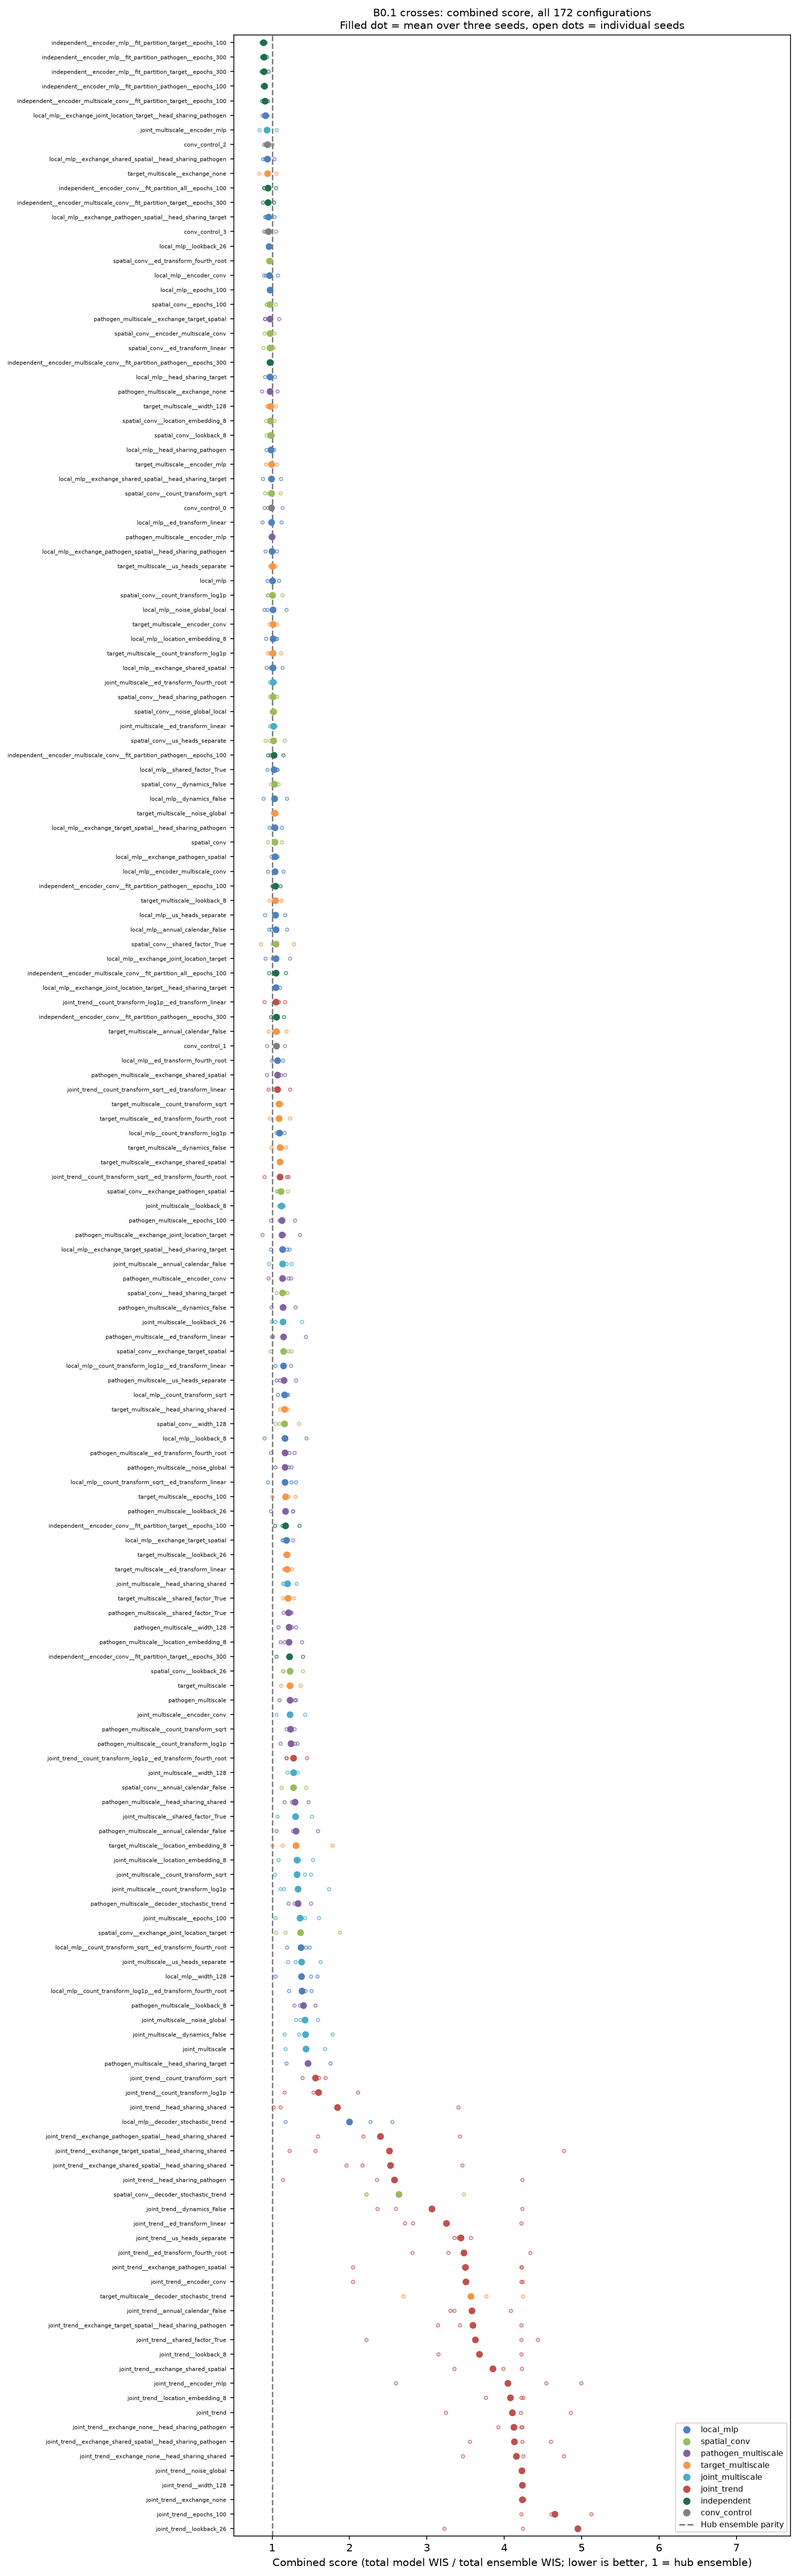
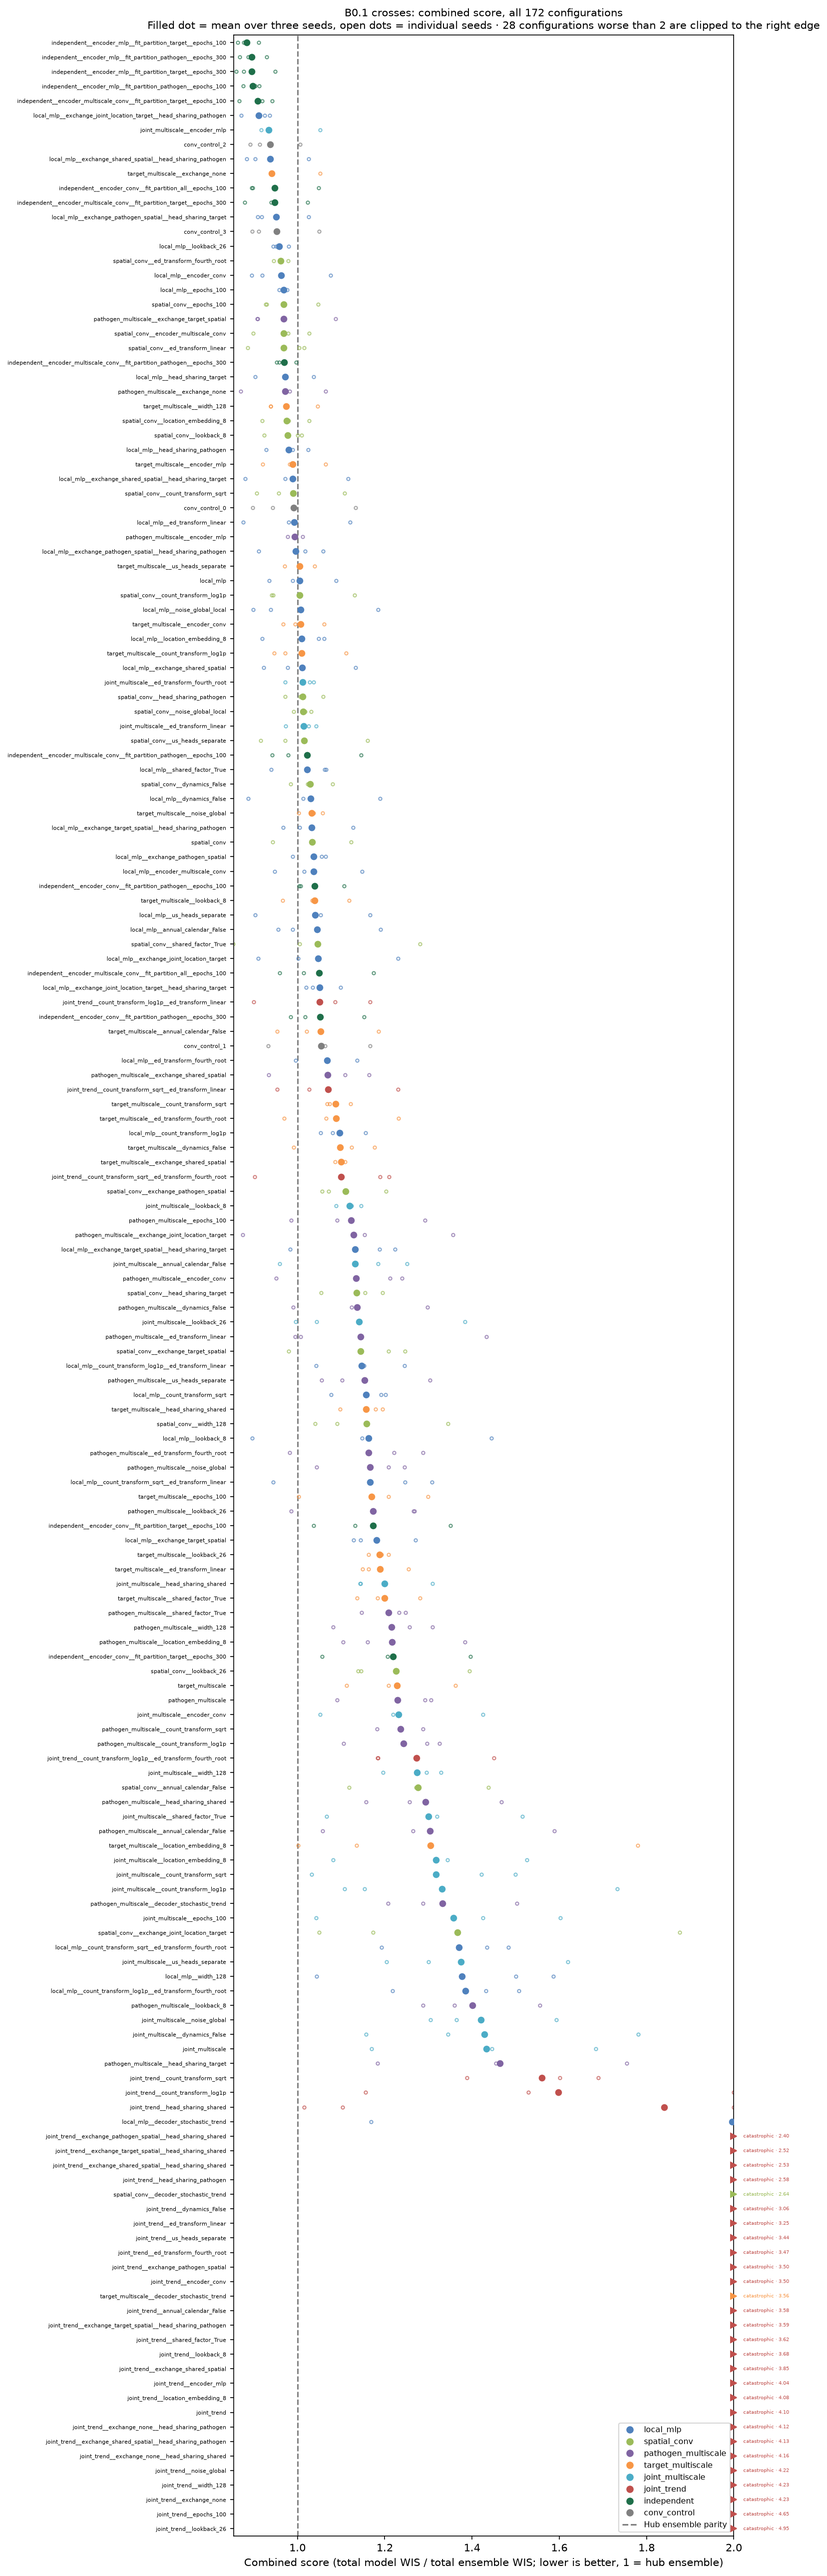
B0.1: per-factor verdicts, overfitting check, readable ranking scale
Ranking figure now stops at 2.0 so the region around ensemble parity is legible;
the 28 configurations beyond it are clipped to the edge and labelled with their
true score. All 28 carry the stochastic trend decoder.

Add a verdict for every one-factor change, excluding joint_trend whose collapsed
baseline made almost any change look like a large improvement. Five factors are
clear, four are consistent but below the seed-noise floor, and eighteen flip sign
between references. The four clear beneficial factors all point toward the
simpler model.

Add an overfitting section: no sign of training-set overfitting (early stopping
selects interior epochs, only 4% of cap-300 fits hit the cap, and raising the cap
from 100 to 300 does not help), but selection overfitting is real given 172
configurations ranked on three seasons with seed SD above the top-10 spread.

diff --git a/scripts/plot_b01_crosses.py b/scripts/plot_b01_crosses.py
@@ -72,23 +72,42 @@ def quality_table(seasons, configs, geography='states_dc'):
     return table.join(configs.set_index('name')[['combined_mean', 'combined_sd', 'rank']])
 
 
+CATASTROPHIC = 2.0
+
+
 def ranking_figure(configs, runs, output):
-    """Every configuration's combined score with its three seeds, best on top."""
+    """Every configuration's combined score with its three seeds, best on top.
+
+    The axis stops at `CATASTROPHIC` so the interesting range around parity is
+    readable; worse configurations are clipped to the edge and labelled with
+    their true score rather than compressing everything else.
+    """
     order = configs.sort_values('combined_mean')
     seeds = runs[runs.geography.eq('all')]
     fig, ax = plt.subplots(figsize=(10.5, 0.19 * len(order) + 1.8))
     y = np.arange(len(order))[::-1]
     for offset, row in zip(y, order.itertuples()):
+        color = FAMILY[family(row.name)]
+        if row.combined_mean > CATASTROPHIC:
+            ax.plot(CATASTROPHIC, offset, '>', ms=6, color=color, clip_on=False, zorder=3)
+            ax.annotate(f'catastrophic · {row.combined_mean:.2f}', (CATASTROPHIC, offset),
+                        textcoords='offset points', xytext=(9, 0), va='center', fontsize=5,
+                        color=color, annotation_clip=False)
+            continue
         points = seeds[seeds.name.eq(row.name)].combined
-        ax.plot(points, [offset] * len(points), 'o', ms=3, mfc='none',
-                mec=FAMILY[family(row.name)], alpha=.7, zorder=2)
-        ax.plot(row.combined_mean, offset, 'o', ms=5.5, color=FAMILY[family(row.name)], zorder=3)
+        ax.plot(np.clip(points, None, CATASTROPHIC), [offset] * len(points), 'o', ms=3, mfc='none',
+                mec=color, alpha=.7, zorder=2)
+        ax.plot(row.combined_mean, offset, 'o', ms=5.5, color=color, zorder=3)
     ax.axvline(1, color=ENSEMBLE, lw=1.4, ls='--', zorder=1)
+    ax.set_xlim(order.combined_mean.min() - .03, CATASTROPHIC)
     ax.set_yticks(y)
     ax.set_yticklabels(order.name, fontsize=5.2)
     ax.set_xlabel('Combined score (total model WIS / total ensemble WIS; lower is better, 1 = hub ensemble)')
+    beyond = int((configs.combined_mean > CATASTROPHIC).sum())
     ax.set_title(f'B0.1 crosses: combined score, all {len(order)} configurations\n'
-                 'Filled dot = mean over three seeds, open dots = individual seeds', fontsize=10)
+                 f'Filled dot = mean over three seeds, open dots = individual seeds · '
+                 f'{beyond} configurations worse than {CATASTROPHIC:g} are clipped to the right edge',
+                 fontsize=10)
     handles = [plt.Line2D([], [], marker='o', ls='', color=c, label=f) for f, c in FAMILY.items()]
     handles.append(plt.Line2D([], [], color=ENSEMBLE, ls='--', label='Hub ensemble parity'))
     ax.legend(handles=handles, fontsize=7.5, loc='lower right')
@@ -263,6 +282,9 @@ def seed_figure(configs, runs, output):
     ax.axvspan(top10.combined_mean.min(), top10.combined_mean.max(), color='gold', alpha=.25,
                label=f'Top-10 range = {top10.combined_mean.max() - top10.combined_mean.min():.4f}')
     ax.set_xscale('log')
+    ax.set_xticks([1, 2, 3, 5])
+    ax.xaxis.set_major_formatter(matplotlib.ticker.FormatStrFormatter('%g'))
+    ax.xaxis.set_minor_formatter(matplotlib.ticker.NullFormatter())
     ax.set_xlabel('Combined score (mean over seeds)')
     ax.set_ylabel('SD across the three seeds')
     ax.set_title('Seed noise grows with the score, and swamps the top of the table', fontsize=10)

diff --git a/docs/results/b0-1-crosses/index.md b/docs/results/b0-1-crosses/index.md
@@ -62,6 +62,12 @@ decoder — costs score at its own reference.
 
 Filled dots are the mean over seeds 42/43/44; open dots are the individual
 seeds. The ensemble parity line at 1 sits inside the upper third of the table.
+The axis stops at 2.0 so the region around parity — where the experiment is
+actually decided — is legible; the 28 configurations worse than that are clipped
+to the right edge and labelled **catastrophic** with their true score. All 28 are
+`joint_trend` variants except two (`spatial_conv__decoder_stochastic_trend` and
+`target_multiscale__decoder_stochastic_trend`), which is the same finding from a
+different angle: the stochastic trend decoder, wherever it appears.
 
 ![Score distribution by reference family](figures/family-spread.png)
 
@@ -155,24 +161,76 @@ spatial and cross-target information exchange, pathogen-versus-target parameter
 sharing, and explicit level/growth uncertainty. Averaged over the references it
 applies to, the one-factor effect of each mechanism is:
 
-| One-factor change | Mean Δ combined | n |
-|---|---:|---:|
-| `decoder_stochastic_trend` | **+1.259** | 4 |
-| `head_sharing_target` | +0.101 | 3 |
-| `lookback_26` | +0.100 | 6 |
-| `exchange_joint_location_target` | +0.091 | 3 |
-| `epochs_100` | +0.033 | 6 |
-| `width_128` | +0.032 | 6 |
-| `location_embedding_8` | −0.022 | 6 |
-| `exchange_none` | −0.139 | 3 |
-| `encoder_mlp` | −0.259 | 4 |
-| `head_sharing_shared` | −0.626 | 4 |
+### Verdict on every factor
 
-Negative is better. Every exchange mechanism is at best neutral and
-`exchange_none` is an improvement; the multiscale encoder is worse than a plain
-MLP; sharing heads beats splitting them. The dominant term is an order of
-magnitude larger than the rest and is not an architecture-of-interest at all: it
-is the **decoder**.
+The table below gives each one-factor change, averaged over the references it
+was applied to. **`joint_trend` is excluded**: its baseline is already collapsed,
+so almost any change "improves" it by partially undoing the trend decoder, which
+would otherwise contaminate every row (`count_transform_sqrt`, for instance,
+looks like −0.45 with `joint_trend` included and −0.03 without).
+
+A factor is **clear** only when every reference moves the same direction *and*
+the mean exceeds the 0.120 median seed SD. Anything that changes sign between
+references is **complicated** — the effect depends on the architecture it is
+applied to, and this screen cannot resolve it.
+
+| Factor | Mean Δ | Range | Same sign | Verdict |
+|---|---:|---|:--:|---|
+| `decoder_stochastic_trend` | **+1.259** | +0.10 … +2.34 | 4/4 | **CLEAR — badly harmful** |
+| `encoder_mlp` | **−0.324** | −0.50 … −0.24 | 3/3 | **CLEAR — helpful** |
+| `exchange_none` | **−0.272** | −0.29 … −0.26 | 2/2 | **CLEAR — helpful** |
+| `encoder_conv` | **−0.139** | −0.22 … −0.04 | 4/4 | **CLEAR — helpful** |
+| `ed_transform_linear` | **−0.124** | −0.42 … −0.01 | 5/5 | **CLEAR — helpful** |
+| `noise_global` | −0.090 | −0.20 … −0.01 | 3/3 | consistent but under noise |
+| `epochs_100` | −0.069 | −0.11 … −0.04 | 5/5 | consistent but under noise |
+| `head_sharing_pathogen` | −0.023 | −0.02 … −0.02 | 2/2 | consistent but under noise |
+| `exchange_pathogen_spatial` | +0.054 | +0.03 … +0.08 | 2/2 | consistent but under noise |
+| `ed_transform_fourth_root` | −0.127 | −0.42 … +0.06 | 4/5 | complicated |
+| `exchange_shared_spatial` | −0.094 | −0.16 … +0.01 | 2/3 | complicated |
+| `head_sharing_shared` | −0.080 | −0.23 … +0.06 | 2/3 | complicated |
+| `us_heads_separate` | −0.068 | −0.22 … +0.04 | 4/5 | complicated |
+| `lookback_26` | −0.049 | −0.29 … +0.19 | 4/5 | complicated |
+| `count_transform_log1p` | −0.049 | −0.22 … +0.09 | 3/5 | complicated |
+| `lookback_8` | −0.046 | −0.31 … +0.17 | 3/5 | complicated |
+| `dynamics_False` | −0.041 | −0.13 … +0.03 | 4/5 | complicated |
+| `shared_factor_True` | −0.030 | −0.13 … +0.02 | 3/5 | complicated |
+| `count_transform_sqrt` | −0.028 | −0.14 … +0.15 | 3/5 | complicated |
+| `annual_calendar_False` | −0.024 | −0.30 … +0.24 | 2/5 | complicated |
+| `location_embedding_8` | −0.021 | −0.12 … +0.08 | 3/5 | complicated |
+| `encoder_multiscale_conv` | −0.017 | −0.07 … +0.03 | 1/2 | complicated |
+| `noise_global_local` | −0.009 | −0.02 … +0.00 | 1/2 | complicated |
+| `exchange_target_spatial` | +0.009 | −0.26 … +0.18 | 2/3 | complicated |
+| `width_128` | +0.014 | −0.25 … +0.37 | 2/5 | complicated |
+| `exchange_joint_location_target` | +0.091 | −0.10 … +0.33 | 2/3 | complicated |
+| `head_sharing_target` | +0.101 | −0.03 … +0.24 | 2/3 | complicated |
+
+Negative is better. Reading it:
+
+- **Five factors are clear.** One is badly harmful (the trend decoder); four are
+  helpful, and all four point the same way — *toward the simpler model*. A plain
+  MLP encoder beats multiscale convolution, turning information exchange **off**
+  beats every form of it, and the plain linear ED transform beats the fancier
+  ones. Nothing that adds machinery is clearly good.
+- **Four are consistent but too small to bank.** They never change sign, but the
+  mean is under the seed-noise floor, so they are suggestive at best. `epochs_100`
+  being mildly *better* than `epochs_300` belongs here and is discussed under
+  overfitting below.
+- **Eighteen are complicated**, i.e. the majority. Their effect flips sign
+  depending on the reference, which means the one-factor screen has done its job
+  and returned "it depends". `width_128` (−0.25 to +0.37) and
+  `annual_calendar_False` (−0.30 to +0.24) are the clearest examples: these
+  interact with the architecture and cannot be settled here.
+
+The honest summary is that **one factor dominates and four point toward
+simplicity; everything else is either noise-limited or architecture-dependent.**
+
+### The `joint_trend` crosses are rescue attempts, not effects
+
+Every cross around `joint_trend` is best read as "how much of the trend
+decoder's damage does this undo". The baseline is 4.104; the best any single
+change achieves is 1.559 (`count_transform_sqrt`, −2.545). None reach parity.
+This is why the family is excluded from the table above, and it is independent
+evidence that the decoder — not the recipe around it — is what is broken.
 
 **The stochastic trend decoder is the finding.** Swapping only the decoder onto
 an otherwise unchanged reference costs +0.99 at `local_mlp`, +1.60 at
@@ -183,6 +241,55 @@ sample trajectories, and `joint_trend` inherits it, which is the entire reason
 that family occupies its own regime. No `joint_trend` variant with a legacy
 decoder was run, so the specification confounds the trend decoder with the rest
 of the `joint_trend` recipe; that control is the obvious missing cell.
+
+### Is the leader overfitting?
+
+The leading configurations are visually appealing — the fans track the wave
+closely and the medians are well placed — which is exactly when overfitting is
+worth checking rather than assuming. Two different things could be meant, and
+they have different answers.
+
+**Overfitting the training seasons: no clear sign.** Early stopping is doing real
+work and the fits are not running away:
+
+| Diagnostic | Leaders | Whole suite |
+|---|---|---|
+| Selected epoch (mean) | 67–87 | 74 at cap 100, 114 at cap 300 |
+| Fits hitting the epoch cap | 75 of 216 folds | 4% at cap 300 |
+| Validation rebound after best epoch | 13–16% | 8.7% median |
+
+Every fit selects an interior epoch by validation loss rather than training to
+its budget, and at cap 300 only 4% of fits reach the cap at all — the models stop
+because validation stops improving, not because they run out of epochs. The
+train/validation gap at the selected epoch (~60% for the leaders) is *lower* than
+the suite median (~64%), so the leaders are not the configurations fitting their
+training data hardest.
+
+The strongest evidence is the direct experiment: **raising the budget from 100 to
+300 epochs does not help.** Across the six recipes where both caps were run, the
+mean change is +0.009 and cap 300 is worse in 4 of 6. If the leaders were
+underfitting, more epochs would help; if they were badly overfitting, more epochs
+would hurt a lot. Neither happens — they are near the flat optimum where early
+stopping is already finding the right place.
+
+Note also that the leaders are *under*-dispersed, not over-confident in the
+classic overfitting sense of memorised training points. Their failure mode is
+intervals that are too narrow everywhere, including on the training seasons.
+
+**Overfitting the model-selection process: yes, and it is the real risk.** This
+is the version that should worry you. With 172 configurations ranked on three
+outer seasons and a median seed SD of 0.120 against a top-10 spread of 0.058, the
+apparent winner is substantially a draw from noise. "Rank 1 of 172" on this
+evidence is not a reproducible claim — a fourth seed could reorder the top ten.
+The defensible statement is that the independent-model cluster sits near
+0.88–0.91, not that any single recipe is best.
+
+A structural caveat reinforces this: the outer season CV has only three folds,
+the seasons differ in which targets exist at all, and normalisers and stopping
+exclude the held-out season but the *configuration choice* is informed by all
+three. Selecting a winner on these scores and then reporting those same scores as
+its performance would be optimistic. Treat the leaders as a shortlist to
+re-evaluate, not as a measured ranking.
 
 **Seed noise limits what can be concluded at the top.** The median seed SD is
 0.120 while the whole top 10 spans 0.058. Within the leading group the ranking
@@ -222,7 +329,12 @@ Skill is concentrated at the nowcast and decays outward, consistent with B0.0.
    that baseline, and on this evidence it does not — which is a meaningful
    negative result for the B1 design, not just a null.
 4. **Do not tune on differences below ~0.12.** More seeds, not more
-   configurations, are what would resolve the top of the table.
+   configurations, are what would resolve the top of the table. The epoch budget
+   is settled: 100 is enough, and early stopping already finds the right epoch.
+5. **Re-evaluate the shortlist rather than crowning a winner.** The leaders were
+   selected on the same three seasons used to score them. Confirm the
+   independent-model cluster on fresh seeds or a held-out season before treating
+   any single recipe as best.
 
 ## Reproducing
 
